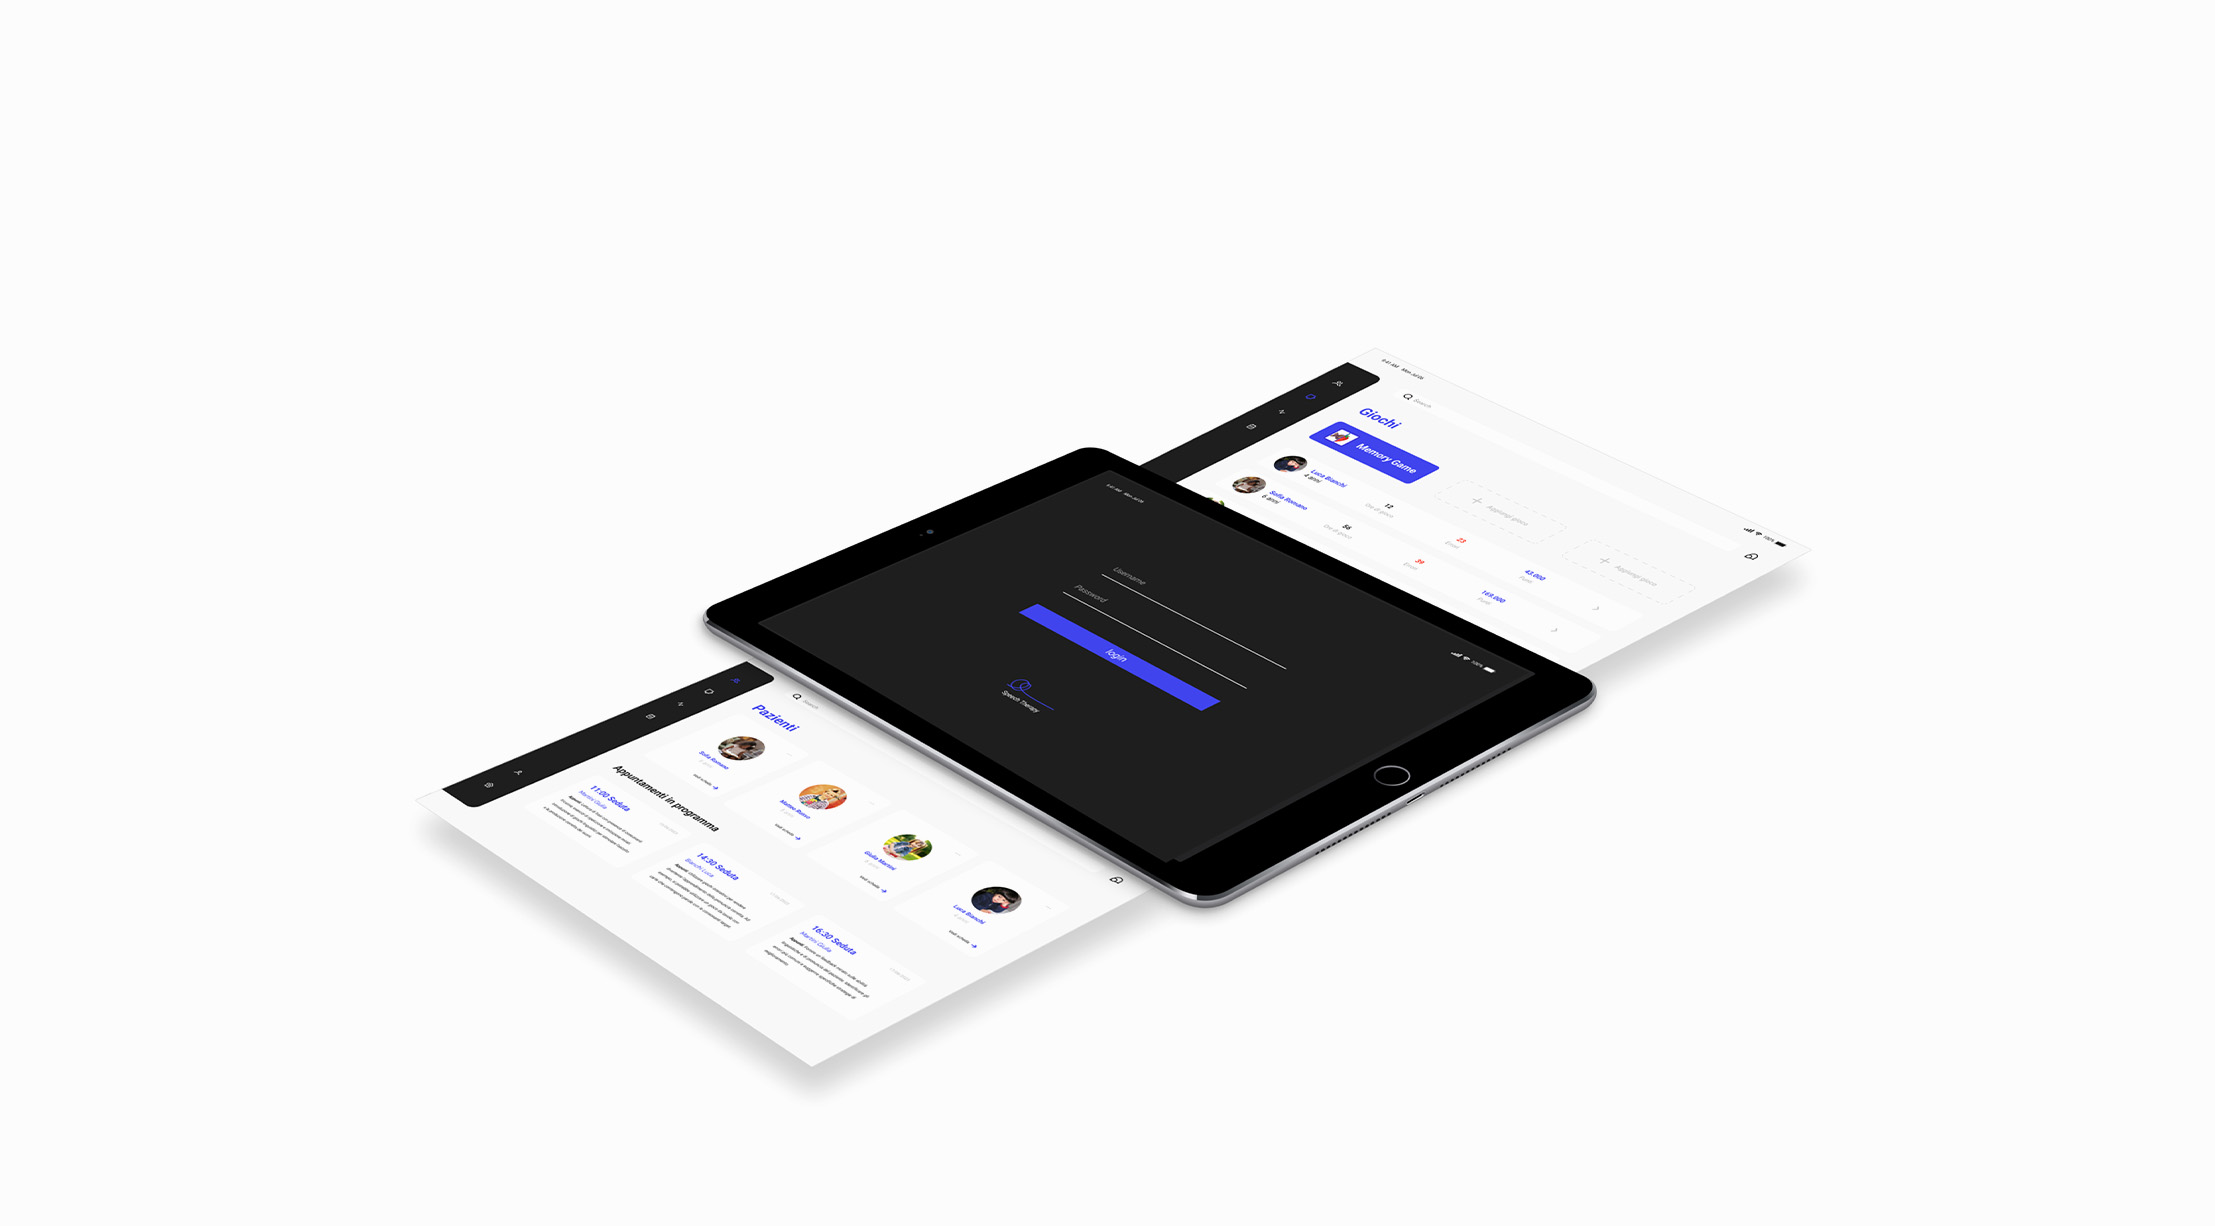
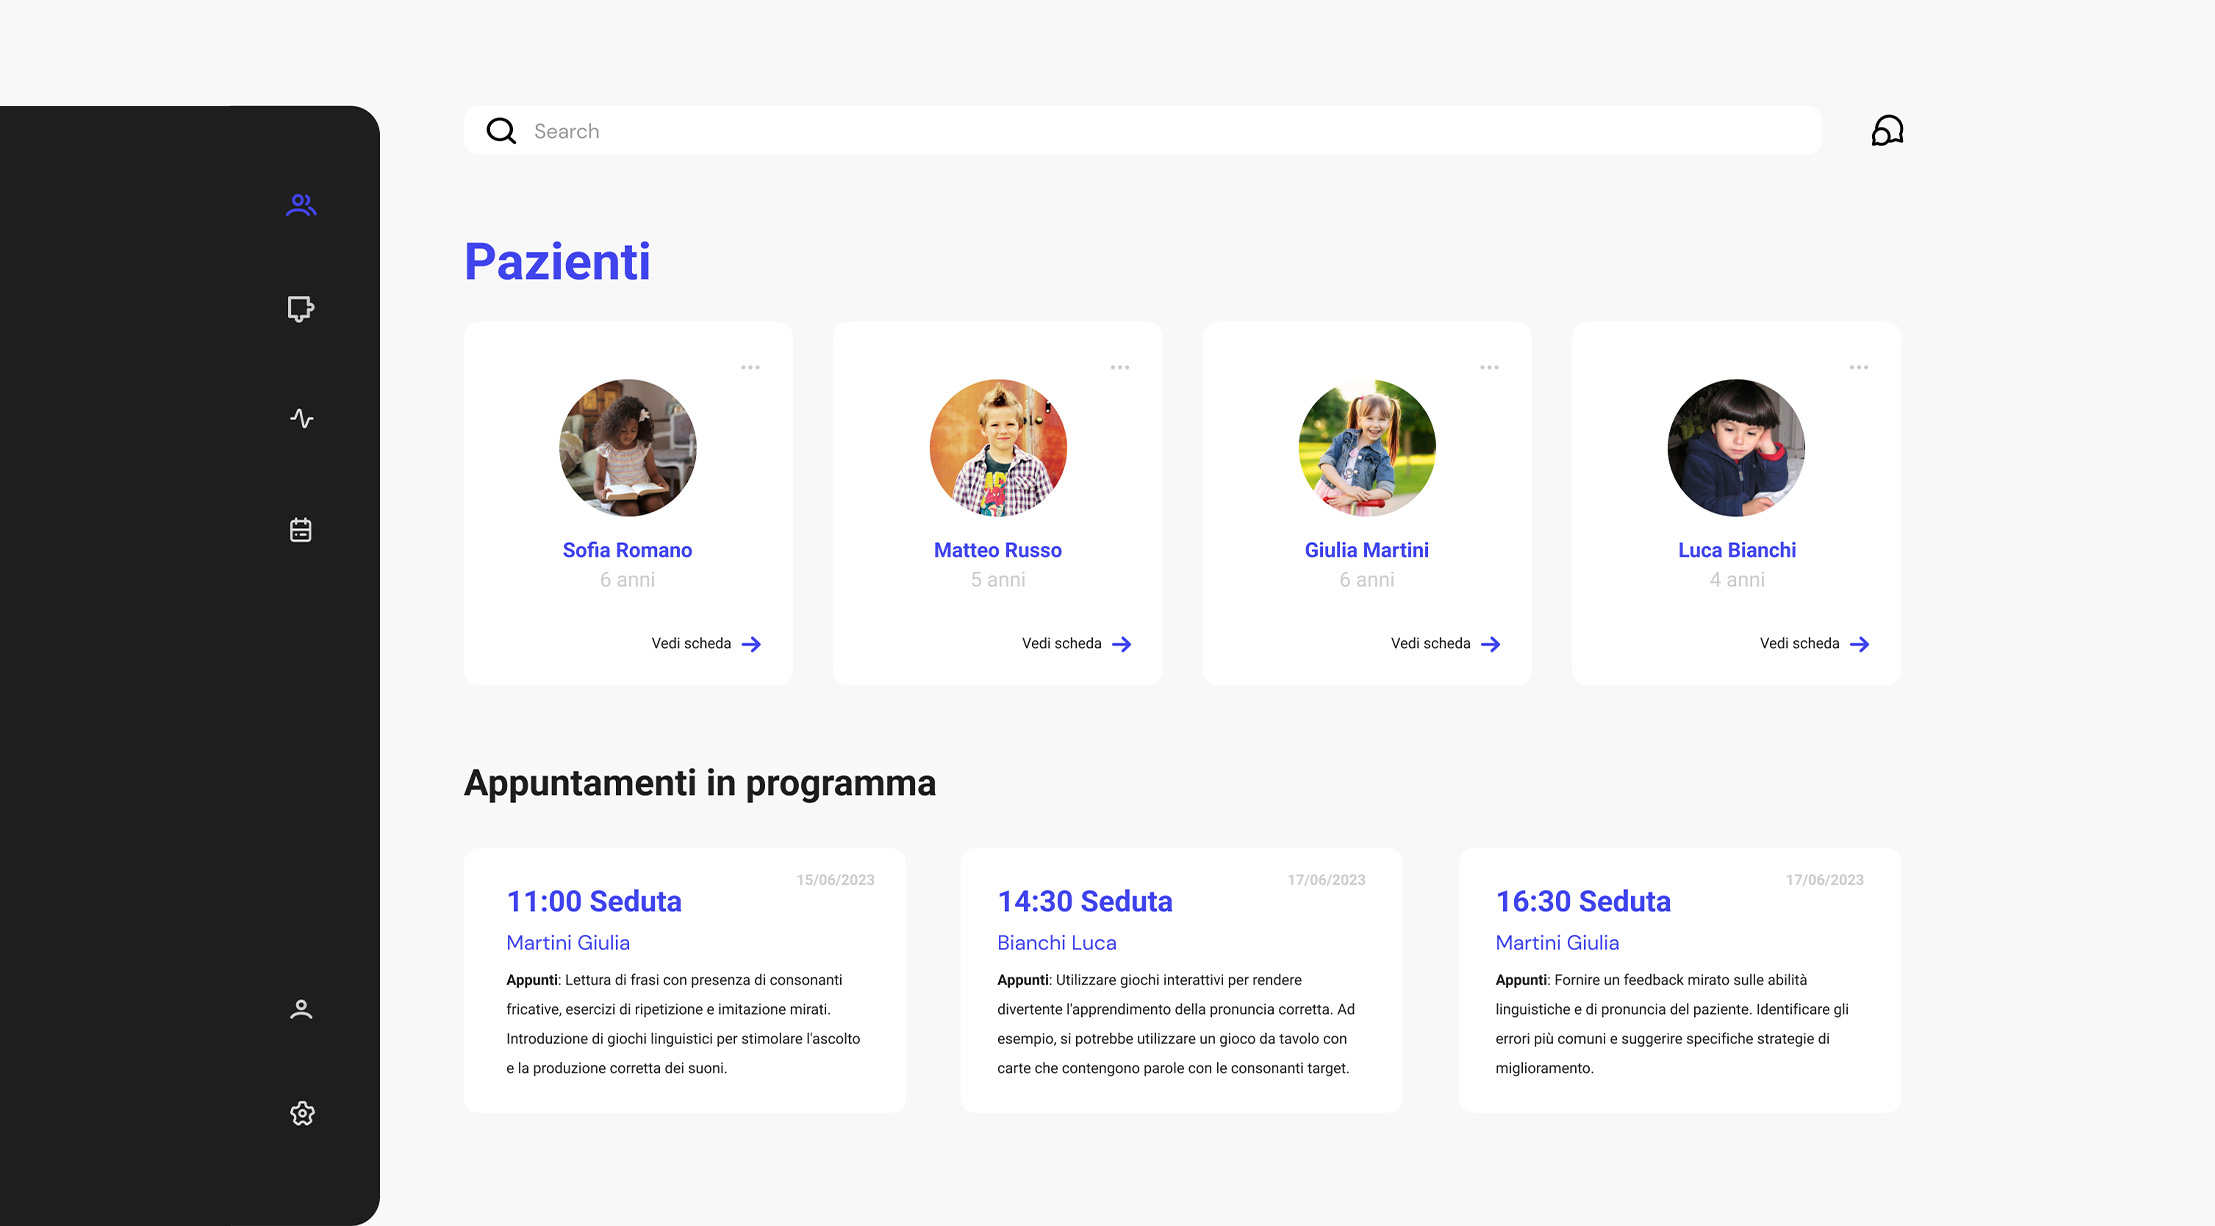
foto 1 e 3 di logopedia

diff --git a/logopedia.html b/logopedia.html
@@ -251,9 +251,9 @@
     </section>
     <section class="section work-section">
         <div class="w-layout-blockcontainer container w-container">
-            <div class="work-images"><img src="images/bafoto1.jpg" loading="lazy" width="70" alt=""
+            <div class="work-images"><img src="images/lofoto1.jpg" loading="lazy" width="70" alt=""
                     class="work-image"><img src="images/bafoto2.jpg" loading="lazy" width="70" alt=""
-                    class="work-image"><img src="images/bafoto3.jpg" loading="lazy" width="70" alt=""
+                    class="work-image"><img src="images/lofoto3.jpg" loading="lazy" width="70" alt=""
                     class="work-image"></div>
         </div>
     </section>
